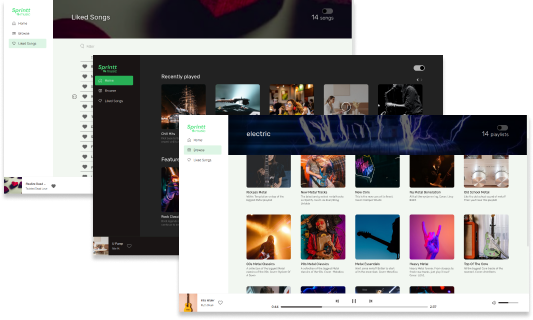
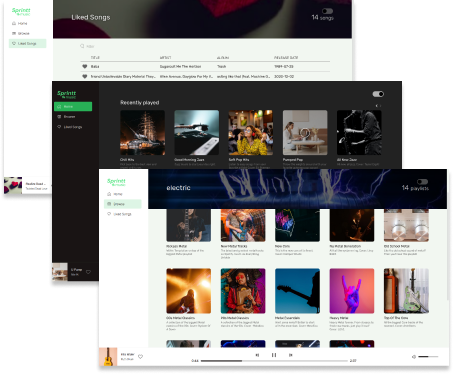
🚀 IMPROVEMENT: make the whole project more responsive

diff --git a/src/components/Header.tsx b/src/components/Header.tsx
@@ -1,8 +1,27 @@
+import styled, { keyframes } from 'styled-components';
+import { useState, useEffect } from 'react';
 import { ParticleText } from './PerlinText';
 import { Me } from './Me';
-import styled, { keyframes } from 'styled-components';
 
 export const Header: React.FC = () => {
+
+   const [mobile, setMobile] = useState(window.innerWidth > 1024 ? false : true);
+
+   useEffect(() => {
+
+      const resizeHandler = () => {
+
+         if (window.innerWidth < 1024 && !mobile) setMobile(true);
+
+         if (window.innerWidth >= 1024 && mobile) setMobile(false);
+
+      };
+
+      window.addEventListener('resize', resizeHandler);
+
+      return () => window.removeEventListener('resize', resizeHandler);
+
+   }, [mobile]);
 
    const scrollToFirstProject = () => {
 
@@ -17,7 +36,7 @@ export const Header: React.FC = () => {
 
    return (
       <Hero>
-         <ParticleText text={"Hellooooo!"} fontSize={180} offset={{ x: 17, y: 25 }} />
+         { !mobile ? <ParticleText text={"Hellooooo!"} fontSize={180} offset={{ x: 17, y: 25 }} /> : <h1>Hellooo!</h1>}
          <Me />
          <MoreButton onClick={scrollToFirstProject}>Things I made</MoreButton>
       </Hero>
@@ -39,8 +58,26 @@ const Hero = styled.header`
 
    display: block;
    width: 100%;
+   height: 100%;
    position: relative;
    overflow: hidden;
+
+   @media screen and (max-width: 1024px) {
+
+      background: #030303;
+      display: flex;
+      justify-content: space-evenly;
+      flex-direction: column;
+      align-items: center;
+      padding: 0 0 10%;
+
+      h1{
+         font-family: 'Pacifico', sans-serif;
+         font-size: 12rem;
+         color: #0874F7;
+      }
+
+   }
 
 `;
 
@@ -53,7 +90,7 @@ const MoreButton = styled.p`
    cursor: pointer;
    color: white;
    font-family: 'Oswald', sans-serif;
-   font-size: 2.3rem;
+   font-size: 2.5rem;
 
    &::after{
       content: '👇';
@@ -61,10 +98,16 @@ const MoreButton = styled.p`
       left: 50%;
       top: 100%;
       transform: translateX(-50%);
-      font-size: 3rem;
       animation-name: ${pulse};
       animation-iteration-count: infinite;
       animation-duration: 3s;
+   }
+
+   @media screen and (max-width: 1024px) {
+      font-size: 4rem;
+      position: relative;
+      left: 0;
+      bottom: 0;
    }
 
 `;

diff --git a/src/components/ProjectDescription.tsx b/src/components/ProjectDescription.tsx
@@ -17,7 +17,7 @@ export const Description: React.FC<DescriptionProps> = ({ title, info, demoLink,
 
 const DescriptionContainer = styled.div`
 
-   max-width: 47%;
+   max-width: 40%;
    font-family: 'Oswald', serif;
 
    h1{
@@ -49,6 +49,7 @@ const DescriptionContainer = styled.div`
       
       margin-bottom: 70px;
       text-align: center;
+      max-width: 50%;
 
       h1{
          font-size: 4.2rem;
@@ -56,7 +57,7 @@ const DescriptionContainer = styled.div`
       }
 
       p{
-         font-size: 2rem;
+         font-size: 2.1rem;
          margin-bottom: 25px;
       }
 

diff --git a/src/classes/PerlinText.ts b/src/classes/PerlinText.ts
@@ -16,6 +16,7 @@ export class PerlinText {
    imageData: ImageData | undefined;
    referenceCanvas: HTMLCanvasElement;
    defaultFont: string = 'sans-serif';
+   frameID: number = 0;
 
    constructor(container: HTMLDivElement | null, text: string, fontSize: number, fontFamily: string, offset: Vec2D) {
 
@@ -107,7 +108,7 @@ export class PerlinText {
 
       this.PerlinParticles.animateParticles(this.context);
 
-      window.requestAnimationFrame(this.animate.bind(this));
+      this.frameID = window.requestAnimationFrame(this.animate.bind(this));
 
    }
 

diff --git a/src/index.tsx b/src/index.tsx
@@ -17,6 +17,7 @@ const GlobalStyle = createGlobalStyle`
       display: block;
       margin: 0;
       width: 100%;
+      height: 100%;
    }
 
    canvas{ display: block; }
@@ -34,8 +35,8 @@ const GlobalStyle = createGlobalStyle`
 
    #slice{
       display: block;
-      position: relative;
       width: 100%;
+      height: 100%;
    }
 
 `;

diff --git a/src/components/CodeLink.tsx b/src/components/CodeLink.tsx
@@ -25,13 +25,14 @@ const CodeButton = styled.button`
 
       svg{
          height: 100%;
+         display: inline-block;
          transition-property: fill;
          transition-duration: .4s;
       }
 
    }
 
-   &: hover{
+   &:hover{
       background: #1f1f1f;
       color: white;
       svg{ fill: white; }

diff --git a/public/index.html b/public/index.html
@@ -5,6 +5,7 @@
    <meta charset="utf-8">
    <title>Alex's slice</title>
    <link href="https://fonts.googleapis.com/css2?family=Oswald:wght@200;400&display=swap" rel="stylesheet">
+   <link href="https://fonts.googleapis.com/css2?family=Pacifico&display=swap" rel="stylesheet">
 </head>
 
 <body>

diff --git a/src/components/Taietti.tsx b/src/components/Taietti.tsx
@@ -1,4 +1,4 @@
-import showcase from '../assets/taietti_showcase.png';
+import showcase from '../assets/taietti_screens.png';
 import { ProjectContainer } from './ProjectContainer';
 import { Showcase } from './Showcase';
 import { Description } from './ProjectDescription';

diff --git a/src/components/Me.tsx b/src/components/Me.tsx
@@ -27,4 +27,12 @@ const MeContainer = styled.div`
    background-size: cover;
    cursor: pointer;
 
+   @media screen and (max-width: 1024px) {
+      position: relative;
+      width: 450px;
+      height: 450px;
+      bottom: 0;
+      right: 0;
+   }
+
 `;

diff --git a/src/components/ButtonsContainer.tsx b/src/components/ButtonsContainer.tsx
@@ -38,4 +38,10 @@ const Container = styled.div`
 
    @media screen and (max-width: 1200px){ justify-content: center; }
 
+   @media screen and (max-width: 1024px){
+      
+      button{ font-size: 1.8rem; }
+   
+   }
+
 `;

diff --git a/src/components/Bubble.tsx b/src/components/Bubble.tsx
@@ -32,6 +32,8 @@ const BubbleContainer = styled.p`
       stroke: white;
    }
 
+   @media screen and (max-width: 1024px) { font-size: 3rem; }
+
 `;
 
 const ArrowContainer = styled.span`

diff --git a/src/components/Showcase.tsx b/src/components/Showcase.tsx
@@ -16,4 +16,6 @@ const ShowcaseContainer = styled.div`
 
    img{ width: 100%; }
 
+   @media screen and (max-width: 1200px) { max-width: 70%; }
+
 `;

diff --git a/src/Slice.tsx b/src/Slice.tsx
@@ -17,6 +17,6 @@ const AppWrapper = styled.div`
 
    display: block;
    width: 100%;
-   overflow: hidden;
+   height: 100%;
 
 `;
